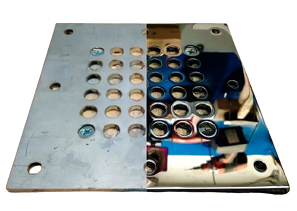
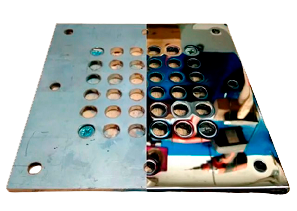
Новые места для спец. комплексов, с картинок для epp и press убран фон.

diff --git a/templates/spec_complexes.html b/templates/spec_complexes.html
@@ -329,10 +329,10 @@
         <div style="width: 100%;   margin: 2%;">
             <div class="img" style="float: left;"> <!--Вставляем изображение станка 1-->
                 <div class="parent_image">
-                    <img src="images/press.jpg" class="stanok_img"/>
+                    <img src="images/press.png" class="stanok_img"/>
                     <figcaption  style="margin: 1.5%; font-weight: bold; font-size: 150%; text-align: center">Пресс ЧПУ для ступиц</figcaption>
                     <div>
-                        <a style="text-decoration: none; float: left" class="icon_mesto" href="mesto/mesto_press" onclick="window.open(this.href, '', 'scrollbars=1,height='+Math.min(680, screen.availHeight)+',width='+Math.min(1510, screen.availWidth)); return false;"><div class='label_mesto'>Место</div></a>
+                        <a style="text-decoration: none; float: left" class="icon_mesto" href="mesto/mesto" onclick="press(); window.open(this.href, '', 'scrollbars=1,height='+Math.min(680, screen.availHeight)+',width='+Math.min(1510, screen.availWidth)); return false;"><div class='label_mesto'>Место</div></a>
                         <a style="text-decoration: none; float: left" class="icon_personal" href="personal/personal_press" onclick="window.open(this.href, '', 'scrollbars=1,height='+Math.min(900, screen.availHeight)+',width='+Math.min(1600, screen.availWidth)); return false;"><div class='label_personal'>Персонал</div></a>
                     </div>
                 </div>
@@ -469,15 +469,8 @@
                     <img src="images/epp.png" class="stanok_img"/>
                     <figcaption style="margin: 1.5%; font-weight: bold; font-size: 150%; text-align: center">ЭПП</figcaption>
                     <div>
-                        <a style="text-decoration: none; float: left" class="icon_mesto" href="mesto/mesto_epp"
-                           onclick="window.open(this.href, '', 'scrollbars=1,height='+Math.min(910, screen.availHeight)+',width='+Math.min(1010, screen.availWidth)); return false;">
-                            <div class='label_mesto'>Место</div>
-                        </a>
-                        <a style="text-decoration: none; float: left" class="icon_personal"
-                           href="personal/personal_epp"
-                           onclick="window.open(this.href, '', 'scrollbars=1,height='+Math.min(900, screen.availHeight)+',width='+Math.min(1600, screen.availWidth)); return false;">
-                            <div class='label_personal'>Персонал</div>
-                        </a>
+                        <a style="text-decoration: none; float: left" class="icon_mesto" href="mesto/mesto" onclick="epp(); window.open(this.href, '', 'scrollbars=1,height='+Math.min(910, screen.availHeight)+',width='+Math.min(1010, screen.availWidth)); return false;"><div class='label_mesto'>Место</div></a>
+                        <a style="text-decoration: none; float: left" class="icon_personal" href="personal/personal_epp" onclick="window.open(this.href, '', 'scrollbars=1,height='+Math.min(900, screen.availHeight)+',width='+Math.min(1600, screen.availWidth)); return false;"><div class='label_personal'>Персонал</div></a>
                     </div>
                 </div>
             </div>
@@ -619,5 +612,16 @@
     }
 </script>
 <!--Скрипт отображения в header  кнопки администрирование-->
+
+<script>
+    var mar_top = localStorage.getItem('mar_top');
+    var mar_left = localStorage.getItem('mar_left');
+    var bground = localStorage.getItem('bground');
+    var place_img = localStorage.getItem('place_img');
+    var size  = localStorage.getItem('size');
+</script>
+<script src="/js/mesto.js"></script>
+<!--Скрипт с вызовом функций для изменения места-->
+
 </body>
 </html>

diff --git a/templates/spec_complexes_month.html b/templates/spec_complexes_month.html
@@ -407,10 +407,10 @@
         <div style="width: 100%;   margin: 2%;">
             <div class="img" style="float: left;"> <!--Вставляем изображение станка 1-->
                 <div class="parent_image">
-                    <img src="images/press.jpg" class="stanok_img"/>
+                    <img src="images/press.png" class="stanok_img"/>
                     <figcaption  style="margin: 1.5%; font-weight: bold; font-size: 150%; text-align: center">Пресс ЧПУ для ступиц</figcaption>
                     <div>
-                        <a style="text-decoration: none; float: left" class="icon_mesto" href="mesto/mesto_press" onclick="window.open(this.href, '', 'scrollbars=1,height='+Math.min(680, screen.availHeight)+',width='+Math.min(1510, screen.availWidth)); return false;"><div class='label_mesto'>Место</div></a>
+                        <a style="text-decoration: none; float: left" class="icon_mesto" href="mesto/mesto" onclick="press(); window.open(this.href, '', 'scrollbars=1,height='+Math.min(680, screen.availHeight)+',width='+Math.min(1510, screen.availWidth)); return false;"><div class='label_mesto'>Место</div></a>
                         <a style="text-decoration: none; float: left" class="icon_personal" href="personal/personal_press" onclick="window.open(this.href, '', 'scrollbars=1,height='+Math.min(900, screen.availHeight)+',width='+Math.min(1600, screen.availWidth)); return false;"><div class='label_personal'>Персонал</div></a>
                     </div>
                 </div>
@@ -445,7 +445,7 @@
                     <img src="images/epp.png" class="stanok_img"/>
                     <figcaption  style="margin: 1.5%; font-weight: bold; font-size: 150%; text-align: center">ЭПП ЧПУ для ступиц</figcaption>
                     <div>
-                        <a style="text-decoration: none; float: left" class="icon_mesto" href="mesto/mesto_epp" onclick="window.open(this.href, '', 'scrollbars=1,height='+Math.min(910, screen.availHeight)+',width='+Math.min(1010, screen.availWidth)); return false;"><div class='label_mesto'>Место</div></a>
+                        <a style="text-decoration: none; float: left" class="icon_mesto" href="mesto/mesto" onclick="epp(); window.open(this.href, '', 'scrollbars=1,height='+Math.min(910, screen.availHeight)+',width='+Math.min(1010, screen.availWidth)); return false;"><div class='label_mesto'>Место</div></a>
                         <a style="text-decoration: none; float: left" class="icon_personal" href="personal/personal_epp" onclick="window.open(this.href, '', 'scrollbars=1,height='+Math.min(900, screen.availHeight)+',width='+Math.min(1600, screen.availWidth)); return false;"><div class='label_personal'>Персонал</div></a>
                     </div>
                 </div>
@@ -488,5 +488,16 @@
     }
 </script>
 <!--Скрипт отображения в header  кнопки администрирование-->
+
+<script>
+    var mar_top = localStorage.getItem('mar_top');
+    var mar_left = localStorage.getItem('mar_left');
+    var bground = localStorage.getItem('bground');
+    var place_img = localStorage.getItem('place_img');
+    var size  = localStorage.getItem('size');
+</script>
+<script src="/js/mesto.js"></script>
+<!--Скрипт с вызовом функций для изменения места-->
+
 </body>
 </html>

diff --git a/static/js/mesto.js b/static/js/mesto.js
@@ -534,6 +534,36 @@ function prans (){
 
 // конец мест Роботы
 
+// Начало мест Спец. комплексы
+function press (){
+    mar_top = -480;
+    mar_left = 765;
+    bground = 'url(../images/press.png) no-repeat';
+    place_img = "../images/ii_ploshadka.png";
+    size = 40;
+
+    window.localStorage['mar_top'] = mar_top;
+    window.localStorage['mar_left'] = mar_left;
+    window.localStorage['bground'] = bground;
+    window.localStorage['place_img'] = place_img;
+    window.localStorage['size'] = size;
+};
+
+function epp (){
+    mar_top = -825;
+    mar_left = 220;
+    bground = 'url(../images/epp.png) no-repeat';
+    place_img = "../images/ceh_6.png";
+    size = 40;
+
+    window.localStorage['mar_top'] = mar_top;
+    window.localStorage['mar_left'] = mar_left;
+    window.localStorage['bground'] = bground;
+    window.localStorage['place_img'] = place_img;
+    window.localStorage['size'] = size;
+};
+// конец мест Спес. комплексы
+
 
 // Начало мест гибка.
 function faccin_1 (){
@@ -563,4 +593,4 @@ function faccin_2 (){
     window.localStorage['place_img'] = place_img;
     window.localStorage['size'] = size;
 };
-// Начало мест гибка.
+// Конец мест гибка.
